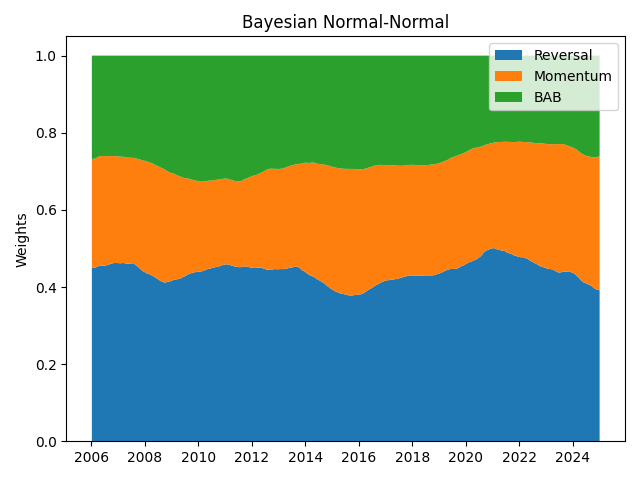
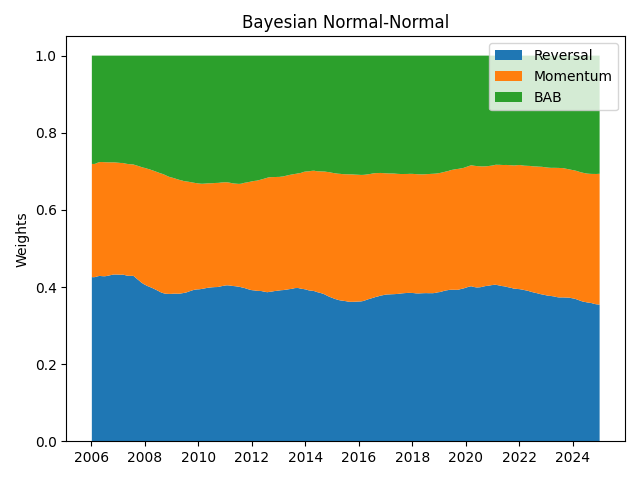
Changed Bayesian prior.

Changed region(s): [[0.125, 0.5, 0.9375, 0.6562], [0.2812, 0.2812, 0.9375, 0.4062], [0.125, 0.3125, 0.2812, 0.375]]

diff --git a/experiments/bayesian_nn.py b/experiments/bayesian_nn.py
@@ -13,7 +13,7 @@ K = 3
 
 # Prior hyperparameters
 mu_0 = np.ones(K) / K
-n_0 = 252 # Pseudo observations
+n_0 = 252 * 5 # Pseudo observations
 Sigma_0 = np.eye(K) * (1 / 100) # Diagonal 1% variance
 
 # Load returns (mve)
@@ -45,7 +45,7 @@ for t in range(WINDOW, len(returns_np)):
     # Posterior parameters (multivariate normal conjugate update)
     Sigma_0_inv = np.linalg.inv(Sigma_0)
     Sigma_inv = np.linalg.inv(Sigma)
-    Sigma_n = np.linalg.inv(Sigma_0_inv + n * Sigma_inv)
+    Sigma_n = np.linalg.inv(n_0 * Sigma_0_inv + n * Sigma_inv)
     mu_n = Sigma_n @ (n_0 * Sigma_0_inv @ mu_0 + n * Sigma_inv @ x_bar)
 
     weights_raw = np.linalg.solve(Sigma_n, mu_n)
